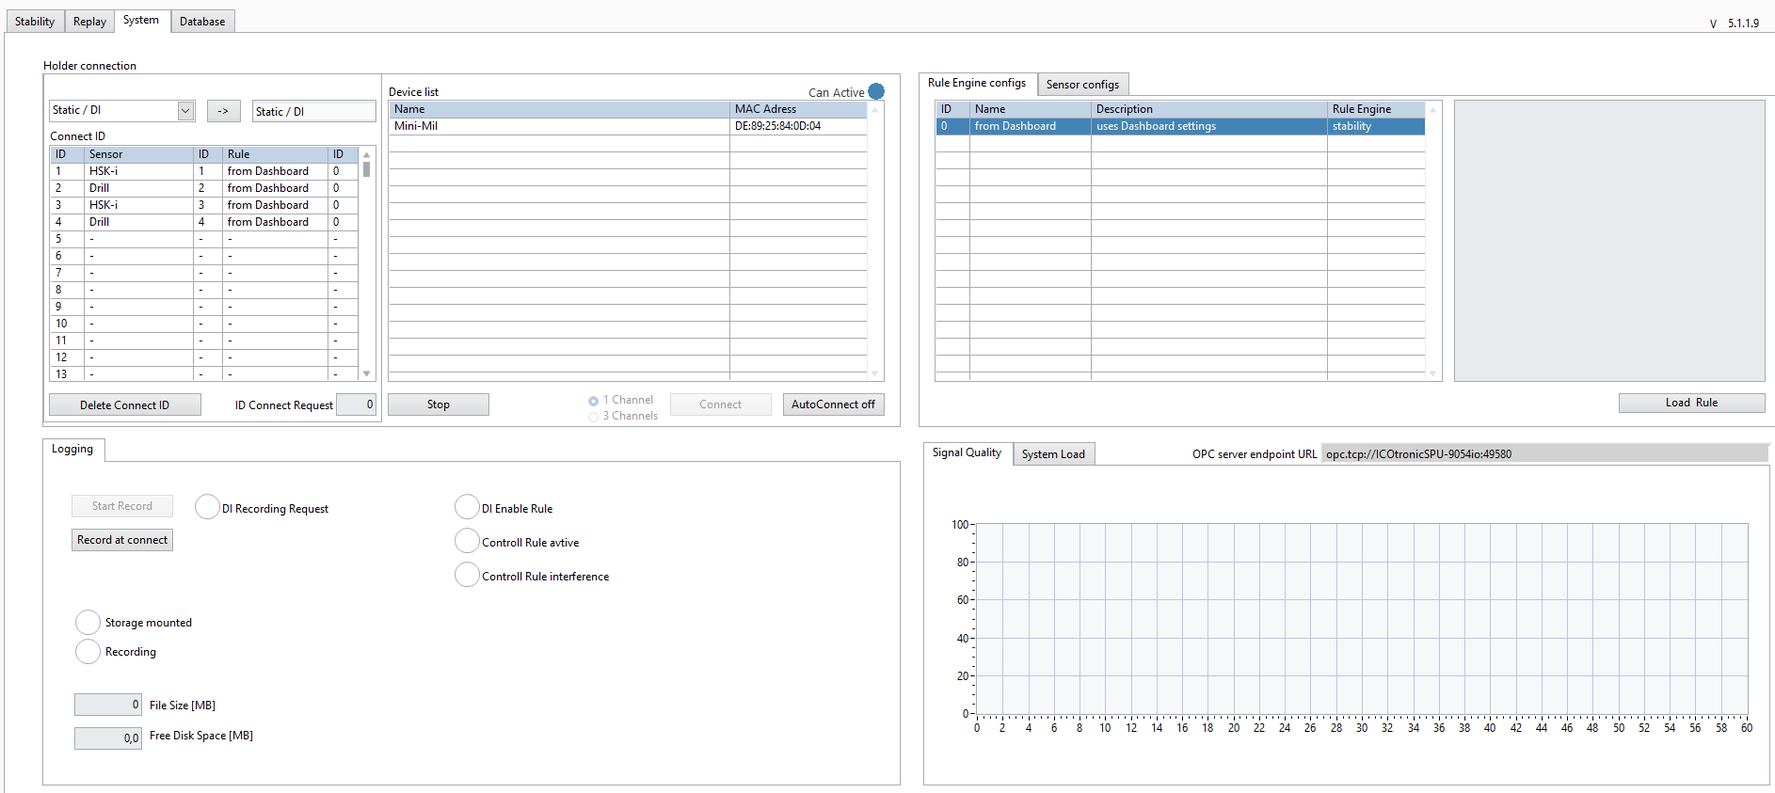
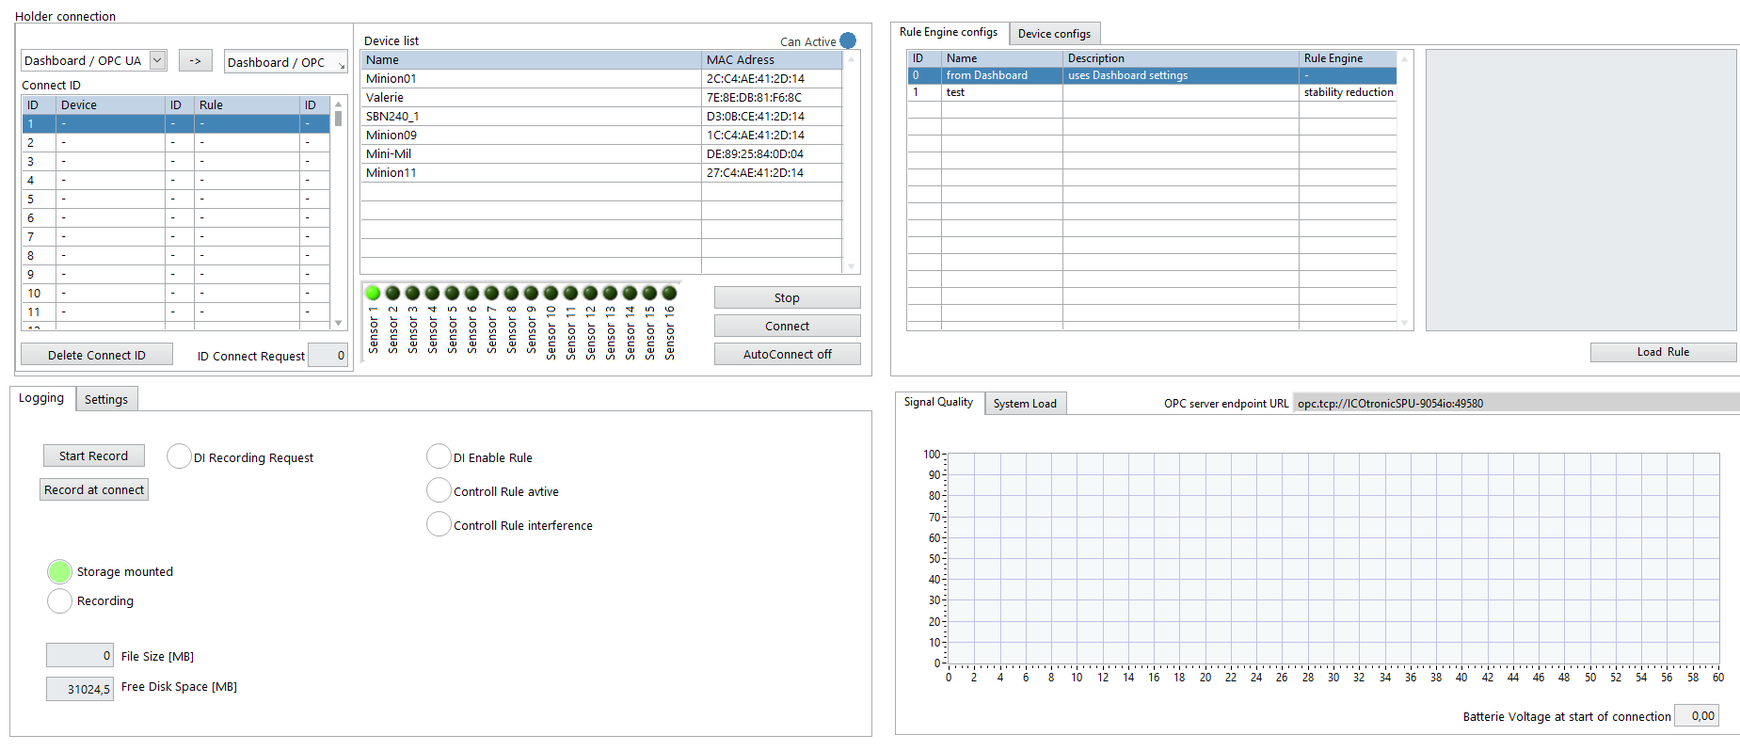
deploy: cabe9ec3d9c9b264da9e517f2945c236c1a73568

diff --git a/index.html b/index.html
@@ -146,7 +146,7 @@ code span.wa { color: #60a0b0; font-weight: bold; font-style: italic; } /* Warni
 <ul>
 <li class="chapter" data-level="4.1.1" data-path=""><a href="#connection-sub-part"><i class="fa fa-check"></i><b>4.1.1</b> Connection sub part</a></li>
 <li class="chapter" data-level="4.1.2" data-path=""><a href="#rule-sensor-config-sub-part"><i class="fa fa-check"></i><b>4.1.2</b> Rule &amp; Sensor config sub part</a></li>
-<li class="chapter" data-level="4.1.3" data-path=""><a href="#logging-sub-part"><i class="fa fa-check"></i><b>4.1.3</b> Logging sub part</a></li>
+<li class="chapter" data-level="4.1.3" data-path=""><a href="#logging-settings-sub-part"><i class="fa fa-check"></i><b>4.1.3</b> Logging &amp; Settings sub part</a></li>
 <li class="chapter" data-level="4.1.4" data-path=""><a href="#connection-types"><i class="fa fa-check"></i><b>4.1.4</b> Connection types</a></li>
 </ul></li>
 <li class="chapter" data-level="4.2" data-path=""><a href="#database"><i class="fa fa-check"></i><b>4.2</b> Database</a>
@@ -242,9 +242,9 @@ code span.wa { color: #60a0b0; font-weight: bold; font-style: italic; } /* Warni
 </div>
 <div id="version" class="section level1 hasAnchor" number="1">
 <h1><span class="header-section-number">1</span> Version<a href="#version" class="anchor-section" aria-label="Anchor link to header"></a></h1>
-<p>This version of the documentation was written for the Dashboard version v5.1.1.9.
+<p>This version of the documentation was written for the Dashboard version v5.3.0.4.
 For older documentation look at the following link:</p>
-<p><a href="https://github.com/MyTooliT/Dashboard/blob/version_4_0_1_4/C-RIO_Dashboard_en.md">older Version</a></p>
+<p><a href="https://github.com/MyTooliT/Dashboard/blob/7f87fe9a3be55a1fabbaa3e65d0878818b1d4ac3/C-RIO_Dashboard_en.md">older Version</a></p>
 </div>
 <div id="icotronic-system-components" class="section level1 hasAnchor" number="2">
 <h1><span class="header-section-number">2</span> ICOtronic System components<a href="#icotronic-system-components" class="anchor-section" aria-label="Anchor link to header"></a></h1>
@@ -282,25 +282,30 @@ For older documentation look at the following link:</p>
 <div id="connection-sub-part" class="section level3 hasAnchor" number="4.1.1">
 <h3><span class="header-section-number">4.1.1</span> Connection sub part<a href="#connection-sub-part" class="anchor-section" aria-label="Anchor link to header"></a></h3>
 <p>In the upper left corner are the functions for the holder connection. On the top is a drop-down menu to choose the wanted connection type. With the “-&gt;” button it can be activated. On the right side of the “-&gt;” button is the momentary active connection type. The right most button “AutoConnect Off/On” can be used to deactivate and activate the need for putting a TRUE to the digital connection pin for connecting in the “Static DI” mode. If it is set to “AutoConnect On” the system will connect to a holder without a TRUE on the connection pin. <strong>Attention: The holder ID pins have to be set within the time frame of 10ms starting with the first TRUE of a holder pin!!!</strong>
-The left list contains all the momentary defined “Static DI” sensor&amp;rule configurations. Below this list you can see the momentary per Digital INS chosen ID. With the “Delete Connect ID” button you can delete the momentary highlighted ID. In the right list all STHs are listed that are found by the system and are ready to connect. You can see the name and the Bluetooth address of the STHs. The “STOP” , “CONNECT” buttons and the radio button with 1 &amp; 3 Channels labels are used to connect/disconnect the system in the “Dashboard” connection mode.</p>
+The left list contains all the momentary defined “Static DI” sensor&amp;rule configurations. Below this list you can see the momentary per Digital INS chosen ID.</p>
+<p><img src="assets/Connect_request_id.png" alt="channel_numbers" /></p>
+<p>With the “Delete Connect ID” button you can delete the momentary highlighted ID. In the right list all STHs are listed that are found by the system and are ready to connect. You can see the name and the Bluetooth address of the STHs. The “STOP” , “CONNECT” buttons are used to connect/disconnect the system in the “Dashboard” connection mode. The multiple green radio-buttons are used to select the chosen Sensors if the system is used in the “Dashboard” connection mode.</p>
 </div>
 <div id="rule-sensor-config-sub-part" class="section level3 hasAnchor" number="4.1.2">
 <h3><span class="header-section-number">4.1.2</span> Rule &amp; Sensor config sub part<a href="#rule-sensor-config-sub-part" class="anchor-section" aria-label="Anchor link to header"></a></h3>
 <p>2 tabs can be found on the upper right side. These are the “Rule Engine configs” and “Sensor configs”. In these 2 tabs you can see the momentary loaded configurations for “Static DI” on the system. Additionally in the “Sensor configs” tab you can highlight a holder by clicking on it and at the bottom below you can choose a rule from the drop-down menu and choose a connection ID you want to set. When pressing the “Load Sensor” button you can load the sensor&amp;rule config into the list of loaded connection options on the top left. Beside the 2 tabs you can see the OPC server URL which is needed if you want to connect/control the system via OPCUA.</p>
 </div>
-<div id="logging-sub-part" class="section level3 hasAnchor" number="4.1.3">
-<h3><span class="header-section-number">4.1.3</span> Logging sub part<a href="#logging-sub-part" class="anchor-section" aria-label="Anchor link to header"></a></h3>
-<p>On the lower left side you can find the “Logging” tab. This tab is used for recording a process and shows the status of the digital inputs. If the “AutoRecord Off/On” button is clicked, it will start the recording when connected to a holder. If not it can be started with the “Start Record” button. When the system is recording this button will become a button to stop the recording. The Identifier “Storage mounted” shows blue if a USB-device is connected. Below it shows the “Recording” identifier which is blue if a record is beeing made at the moment. On the right side you can see the size of the momentary recording and the free space of the mounted USB.</p>
+<div id="logging-settings-sub-part" class="section level3 hasAnchor" number="4.1.3">
+<h3><span class="header-section-number">4.1.3</span> Logging &amp; Settings sub part<a href="#logging-settings-sub-part" class="anchor-section" aria-label="Anchor link to header"></a></h3>
+<p>On the lower left side you can find the “Logging” tab. This tab is used for recording a process and shows the status of the digital inputs. If the “Record at connect” button is clicked, it will start the recording when connected to a holder. If not it can be started with the “Start Record” button. When the system is recording this button will become a button to stop the recording. The Identifier “Storage mounted” shows blue if a USB-device is connected. Below it shows the “Recording” identifier which is red if a record is being made at the moment. Below you can see the size of the momentary recording and the free space of the mounted USB.</p>
 <p><strong>Attention: the system only works with USB-devices formatted to FAT32-format!!!</strong></p>
-<p>The two identifier below show if the digital inputs for recording and enabling of the rule are set by the hardware. (The digital input for recording can be used to start and stop recordings outside of the dashboard). The 2 status identifier at the bottom show if the rule is allowed to change parameters and the last one shows if the system is momentary changing the overrides because of the defined rules. The last button “Autoenable Rule Off/On” can be used to let the rule always been enabled at the connection or if it will be controlled via the “Rule enabled” direct input.</p>
+<p>The one identifier to the right show if the digital input for recording is set by the hardware. (The digital input for recording can be used to start and stop recordings outside of the dashboard). The 3 rightmost status identifier show if the DI for the activation of the momentary used rule is set, the rule is allowed to change parameters (meaning the rule is set to active) and the last one shows if the system is momentary changing the overrides because of the defined rules.</p>
+<p><img src="assets/settings.png" alt="settings" /></p>
+<p>The “Settings” tab is used to reboot the system and to change the system time. On the bottom you can see the “Reboot System” button. The SPU will initialise a reboot of the system when this button is pressed. On top you can 2 text-fields. The upper one is to define the new system time and the lower one is to set the format of the time, shown on the topmost right part of the dashboard. The button “Set Time” is used to set the time given in the text-field to the system time. The button with the calendar and clock can be used to open a new window with a calendar and the clock to set the time.</p>
+<p><img src="assets/clock.png" alt="clock" /></p>
+<p>In this new window you can use the “Aktuelle Zeit verwenden” button to set the date and time to the momentary system time. With a press of the “OK” button will the selected time be written into the text-field.</p>
 </div>
 <div id="connection-types" class="section level3 hasAnchor" number="4.1.4">
 <h3><span class="header-section-number">4.1.4</span> Connection types<a href="#connection-types" class="anchor-section" aria-label="Anchor link to header"></a></h3>
 <p>On the left side you can choose a connection type with the drop down menu. On the right side you can see the momentary active connection type. By pressing the “-&gt;” button between these two you can update the active type to the chosen type.</p>
 <p><img src="assets/connection_type.png" alt="connection_type" /></p>
-<p>You can chose if you are using an one or 3 channel holder with the radio buttons below the list of found holders, with the exception of the “Static / DI” mode. Note that if you use the three channel option with a holder which only has one channel the other two channels will be useless signals from not connected PINs inside the holder. On the left side of the radio buttons you can see if a static connection request is set by the connected digital inputs of the SPU.</p>
-<p><img src="assets/Connect_request_id.png" alt="channel_numbers" />
-<img src="assets/channel_numbers.png" alt="channel_numbers" /></p>
+<p>You can chose which sensors of the chosen holder you want to use with the radio buttons below the list of found holders, with the exception of the “Static / DI” mode. Chosen sensors are green. Note that if you use more than one sensor with a holder which only has one sensor the other two channels will be useless signals from not connected PINs inside the holder. The system will connect in the 1-channel mode if only 1 sensor is selected. The system will connect in the 3-channel mode if more than 1 sensors are selected. If you select more than 3 sensors will the system only use the first 3 selected sensors. The channels are always from the lowest sensor number as channel 1 and the highest channel number as channel 3.</p>
+<p><img src="assets/sensors.png" alt="channel_numbers" /></p>
 <div id="dashboard-opc-ua" class="section level4 hasAnchor" number="4.1.4.1">
 <h4><span class="header-section-number">4.1.4.1</span> Dashboard / OPC UA<a href="#dashboard-opc-ua" class="anchor-section" aria-label="Anchor link to header"></a></h4>
 <p>In this mode you can select the STH of your choice from the “Device list” and press “Connect”. With “Stop”, you can disconnect from the STH. After disconnection the Dashboard needs a few seconds before it starts searching for STHs again.</p>
@@ -426,36 +431,46 @@ Right below the recorded parameters is a box in which you can change the “IFT 
 <p>{ms} window length</p>
 <p>This parameter changes the time window for the calculation of the IFT-Value. The larger the window, the more sluggish the system reacts to changes. For example, a single spike in the process is weighted less on the IFT-Value calculation in a larger window. In “Watch” mode this parameter can be adjusted live. In all other modes, this can only be done using the “update” button as mentioned before.</p>
 </div>
-<div id="upper-threshold" class="section level4 hasAnchor" number="4.4.5.2">
-<h4><span class="header-section-number">4.4.5.2</span> Upper threshold<a href="#upper-threshold" class="anchor-section" aria-label="Anchor link to header"></a></h4>
+<div id="minimum-ift-level" class="section level4 hasAnchor" number="4.4.5.2">
+<h4><span class="header-section-number">4.4.5.2</span> Minimum IFT Level<a href="#minimum-ift-level" class="anchor-section" aria-label="Anchor link to header"></a></h4>
+<p>{-} ift value level</p>
+<p>This parameter is the minimum used value for the rule. All values below this will be ignored. For example is this needed if you use the filter options and scale it to the unfiltered values. When you move quick with the tool inside the machine there could be high frequency parts in the signal and set the system to interfere. So you can use this value to get the system not interfering while it is only moving.</p>
+</div>
+<div id="stability_channel" class="section level4 hasAnchor" number="4.4.5.3">
+<h4><span class="header-section-number">4.4.5.3</span> Stability_Channel<a href="#stability_channel" class="anchor-section" aria-label="Anchor link to header"></a></h4>
+<p>{-} channels</p>
+<p>If you have a three channel holder you can change the channel which is used to calculate the IFT value with this drop down menu. You can use any of the three channels or multiple channels at once. If you use a one channel holder this parameter will be ignored and the IFT value calculated with the one available channel.</p>
+</div>
+<div id="upper-threshold" class="section level4 hasAnchor" number="4.4.5.4">
+<h4><span class="header-section-number">4.4.5.4</span> Upper threshold<a href="#upper-threshold" class="anchor-section" aria-label="Anchor link to header"></a></h4>
 <p>{-} upper threshold</p>
 <p>If the IFT value exceeds the threshold, the overrides are set to the defined values by the SPU. The bigger this value, the more “instable” the process is allowed to become, before override adaptions are activated.</p>
 </div>
-<div id="lower-threshold" class="section level4 hasAnchor" number="4.4.5.3">
-<h4><span class="header-section-number">4.4.5.3</span> Lower threshold<a href="#lower-threshold" class="anchor-section" aria-label="Anchor link to header"></a></h4>
+<div id="lower-threshold" class="section level4 hasAnchor" number="4.4.5.5">
+<h4><span class="header-section-number">4.4.5.5</span> Lower threshold<a href="#lower-threshold" class="anchor-section" aria-label="Anchor link to header"></a></h4>
 <p>{-} lower threshold</p>
 <p>If the IFT-value falls below the lower threshold, the override values will start rising up towards 100% again, following a defined ramp. The lower this value, the more “stable” the process has to become for the overrides to be reset.</p>
 </div>
-<div id="ramp" class="section level4 hasAnchor" number="4.4.5.4">
-<h4><span class="header-section-number">4.4.5.4</span> Ramp<a href="#ramp" class="anchor-section" aria-label="Anchor link to header"></a></h4>
+<div id="ramp" class="section level4 hasAnchor" number="4.4.5.6">
+<h4><span class="header-section-number">4.4.5.6</span> Ramp<a href="#ramp" class="anchor-section" aria-label="Anchor link to header"></a></h4>
 <p>{%/ms} ramp</p>
 <p>This parameter changes the speed of the override reset. The overrides are not reset instantly, as they follow a ramp to change back to 100%. The bigger this value, the steeper the ramp and the faster the system goes back to 100% spindle speed and feed rate.</p>
 <p>A value of e.g. 0.01 %/ms would increase the feed rate and/or spindle speed to 10 % within 1 second.</p>
 </div>
-<div id="feed-override" class="section level4 hasAnchor" number="4.4.5.5">
-<h4><span class="header-section-number">4.4.5.5</span> Feed override<a href="#feed-override" class="anchor-section" aria-label="Anchor link to header"></a></h4>
+<div id="feed-override" class="section level4 hasAnchor" number="4.4.5.7">
+<h4><span class="header-section-number">4.4.5.7</span> Feed override<a href="#feed-override" class="anchor-section" aria-label="Anchor link to header"></a></h4>
 <p>{0-100%} Setpoint for feed rate</p>
 <p>This parameter is used in the modes “Stop”, “Stability reduction”, “Stability 2 Level” and “Direct output”. In “Stop”, “Stability 2 Level” and “Direct output” this value defines the override applied to the machine tool control system, the moment the ICOtronic system activates the feed rate adaption of the machine.
 In “Stability reduction” this value defines the minimal feed rate override, which is sent to the machine by the ICOtronic system. The reduction cannot fall below this value.</p>
 </div>
-<div id="spindle-override" class="section level4 hasAnchor" number="4.4.5.6">
-<h4><span class="header-section-number">4.4.5.6</span> Spindle override<a href="#spindle-override" class="anchor-section" aria-label="Anchor link to header"></a></h4>
+<div id="spindle-override" class="section level4 hasAnchor" number="4.4.5.8">
+<h4><span class="header-section-number">4.4.5.8</span> Spindle override<a href="#spindle-override" class="anchor-section" aria-label="Anchor link to header"></a></h4>
 <p>{0-100%} Setpoint for spindle speed</p>
 <p>This parameter is used in “Stop”, “Stability reduction”, “Stability 2 Level” and “Direct output”. In “Stability 2 Level” and “Direct output” this value defines the override applied to the machine tool control system, the moment the ICOtronic system activates the spindle speed reduction of the machine.
 In “Stability reduction” this value defines the minimal feed rate override, which is sent to the machine by the ICOtronic system. The reduction cannot fall below this value.</p>
 </div>
-<div id="feed-reduction-factor" class="section level4 hasAnchor" number="4.4.5.7">
-<h4><span class="header-section-number">4.4.5.7</span> Feed reduction factor<a href="#feed-reduction-factor" class="anchor-section" aria-label="Anchor link to header"></a></h4>
+<div id="feed-reduction-factor" class="section level4 hasAnchor" number="4.4.5.9">
+<h4><span class="header-section-number">4.4.5.9</span> Feed reduction factor<a href="#feed-reduction-factor" class="anchor-section" aria-label="Anchor link to header"></a></h4>
 <p>{0-100%} Reduction factor</p>
 <p>This parameter is used in the “Stability reduction” mode. This value controls the intensity of the reduction steps of the feed rate.</p>
 <p>As an example: A value of 5 % for “Feed reduction factor” results in continuous reduction of 5% of the override as long as the IFT-Value is bigger than the upper threshold at each calculation interval.</p>
@@ -463,8 +478,8 @@ In “Stability reduction” this value defines the minimal feed rate override, 
 Reduction step 2: Reduction from 95 % to 90 %
 …and so on.</p>
 </div>
-<div id="spindle-reduction-factor" class="section level4 hasAnchor" number="4.4.5.8">
-<h4><span class="header-section-number">4.4.5.8</span> Spindle reduction factor<a href="#spindle-reduction-factor" class="anchor-section" aria-label="Anchor link to header"></a></h4>
+<div id="spindle-reduction-factor" class="section level4 hasAnchor" number="4.4.5.10">
+<h4><span class="header-section-number">4.4.5.10</span> Spindle reduction factor<a href="#spindle-reduction-factor" class="anchor-section" aria-label="Anchor link to header"></a></h4>
 <p>{0-100%} Reduction factor</p>
 <p>This parameter is used in the “Stability reduction” mode. This value controls the intensity of the reduction steps of the spindle speed.</p>
 <p>As an example: A value of 5 % for “Spindle reduction factor” results in continuous reduction of 5% of the override as long as the IFT-Value is bigger than the upper threshold at each calculation interval.</p>
@@ -472,8 +487,8 @@ Reduction step 2: Reduction from 95 % to 90 %
 Reduction step 2: Reduction from 95 % to 90 %
 …and so on.</p>
 </div>
-<div id="deadtime" class="section level4 hasAnchor" number="4.4.5.9">
-<h4><span class="header-section-number">4.4.5.9</span> Deadtime<a href="#deadtime" class="anchor-section" aria-label="Anchor link to header"></a></h4>
+<div id="deadtime" class="section level4 hasAnchor" number="4.4.5.11">
+<h4><span class="header-section-number">4.4.5.11</span> Deadtime<a href="#deadtime" class="anchor-section" aria-label="Anchor link to header"></a></h4>
 <p>{ms} deadtime</p>
 <p>This parameter is only used in the “Stability reduction” mode. This value equals the time in ms the system pauses before checking if it should reduce the spindle speed and feed rate again. The smaller this value, the quicker the ICOtronic system reduces the speed. As a reference value for first tests 300 ms can be mentioned. This means, each 300 ms feed rate and/or spindle speed are adapted as long as the IFT value exceeds the threshold.
 <strong><u>Note:</u></strong> if this value is to low it can happen that the machine needs longer to set the new parameters than the system waits to see if something changed. This would have the problem that even it the process stabilises the machine still changes values from the last instance and the process gets unstable again.</p>
@@ -485,18 +500,30 @@ Reduction step 2: Reduction from 95 % to 90 %
 <p>Deadtime: 300ms</p>
 <p><img src="assets/deadtime2.png" alt="deadtime2" /></p>
 </div>
-<div id="stability_channel" class="section level4 hasAnchor" number="4.4.5.10">
-<h4><span class="header-section-number">4.4.5.10</span> Stability_Channel<a href="#stability_channel" class="anchor-section" aria-label="Anchor link to header"></a></h4>
-<p>{-} channels</p>
-<p>If you have a three channel holder you can change the channel which is used to calculate the IFT value with this drop down menu. You can use any of the three channels or multiple channels at once. If you use a one channel holder this parameter will be ignored and the IFT value calculated with the one available channel.</p>
+<div id="low-pass-filter" class="section level4 hasAnchor" number="4.4.5.12">
+<h4><span class="header-section-number">4.4.5.12</span> Low-Pass Filter<a href="#low-pass-filter" class="anchor-section" aria-label="Anchor link to header"></a></h4>
+<p>{Hz} cutoff frequency
+{-} active/inactive</p>
+<p>This parameter is used as low pass filter cutoff frequency when calculating the IFT values. The text-field is used to give the cutoff frequency and the circle is a button to activate the low-pass filter. The button will turn blue if the filter is set to active.</p>
 </div>
-<div id="ift-value-factor" class="section level4 hasAnchor" number="4.4.5.11">
-<h4><span class="header-section-number">4.4.5.11</span> IFT value factor<a href="#ift-value-factor" class="anchor-section" aria-label="Anchor link to header"></a></h4>
+<div id="high-pass-filter" class="section level4 hasAnchor" number="4.4.5.13">
+<h4><span class="header-section-number">4.4.5.13</span> High-Pass Filter<a href="#high-pass-filter" class="anchor-section" aria-label="Anchor link to header"></a></h4>
+<p>{Hz} cutoff frequency
+{-} active/inactive</p>
+<p>This parameter is used as high-pass filter cutoff frequency when calculating the IFT values. The text-field is used to give the cutoff frequency and the circle is a button to activate the high-pass filter. The button will turn blue if the filter is set to active.</p>
+</div>
+<div id="scale-to-unfiltered" class="section level4 hasAnchor" number="4.4.5.14">
+<h4><span class="header-section-number">4.4.5.14</span> Scale to unfiltered<a href="#scale-to-unfiltered" class="anchor-section" aria-label="Anchor link to header"></a></h4>
+<p>{-} active/inactive</p>
+<p>This circle shaped button shines blue if activated. The filtered (high-pass and low-pass filtered) signal will be set in relation to the unfiltered signal if the function is activated. Following the activation the IFT value can be at maximum a “1”. <strong>If the low-pass AND high-pass filters are deactivated the signal will always be a “1”.</strong></p>
+</div>
+<div id="ift-value-factor" class="section level4 hasAnchor" number="4.4.5.15">
+<h4><span class="header-section-number">4.4.5.15</span> IFT value factor<a href="#ift-value-factor" class="anchor-section" aria-label="Anchor link to header"></a></h4>
 <p>{-} IFT value factor</p>
 <p>This is a multiplicative factor for the IFT-Value in the corresponding diagram and for the analogue port number 0 of the SPU (NI 9263). With it, the signal can be set to a desired value. The values for the different channels can be changed separately.</p>
 </div>
-<div id="ift-value-offset" class="section level4 hasAnchor" number="4.4.5.12">
-<h4><span class="header-section-number">4.4.5.12</span> IFT value offset<a href="#ift-value-offset" class="anchor-section" aria-label="Anchor link to header"></a></h4>
+<div id="ift-value-offset" class="section level4 hasAnchor" number="4.4.5.16">
+<h4><span class="header-section-number">4.4.5.16</span> IFT value offset<a href="#ift-value-offset" class="anchor-section" aria-label="Anchor link to header"></a></h4>
 <p>{-} IFT value offset</p>
 <p>This is an additive value, to the IFT-Value in the corresponding diagram and for the analogue port number 0 of the SPU (NI9263). With it, the signal can be set to a desired offset. The values for the different channels can be changed separately.</p>
 </div>
